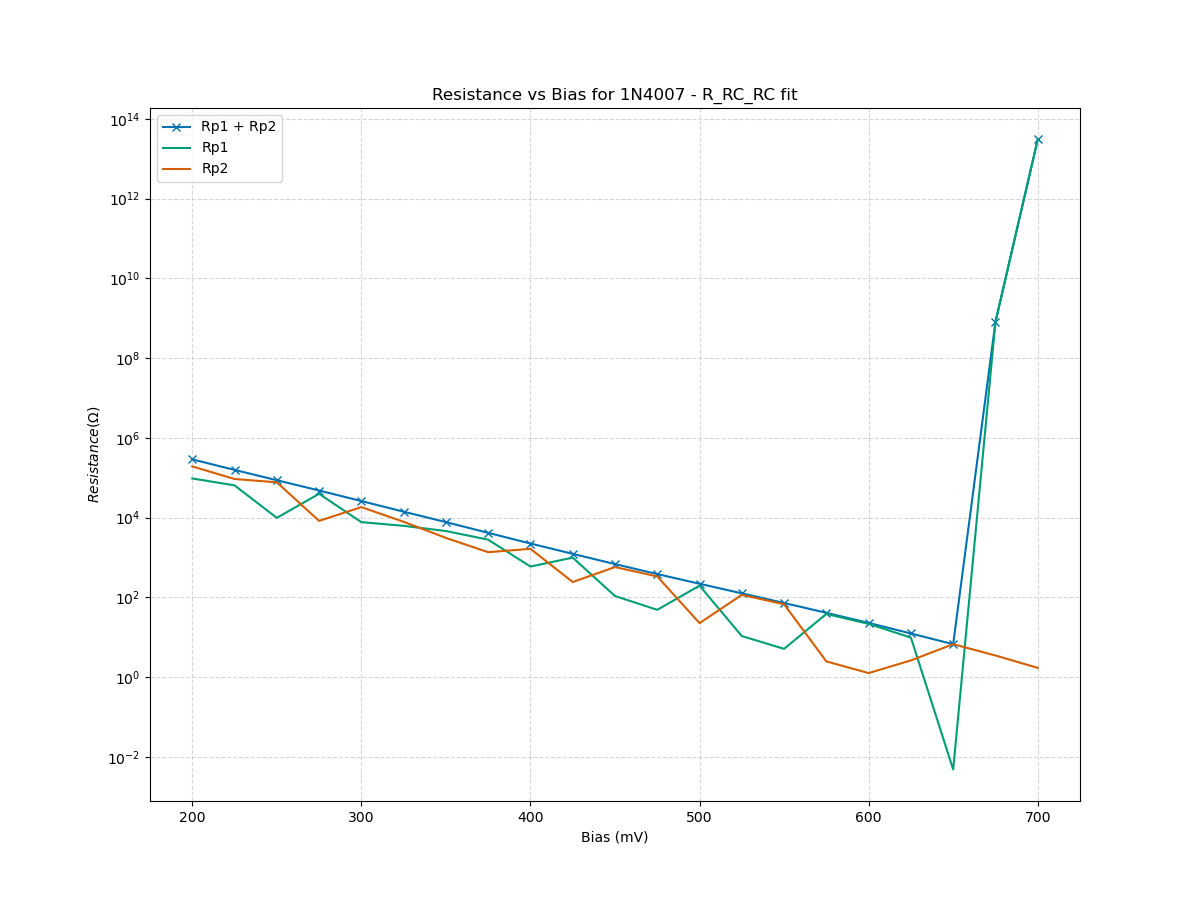
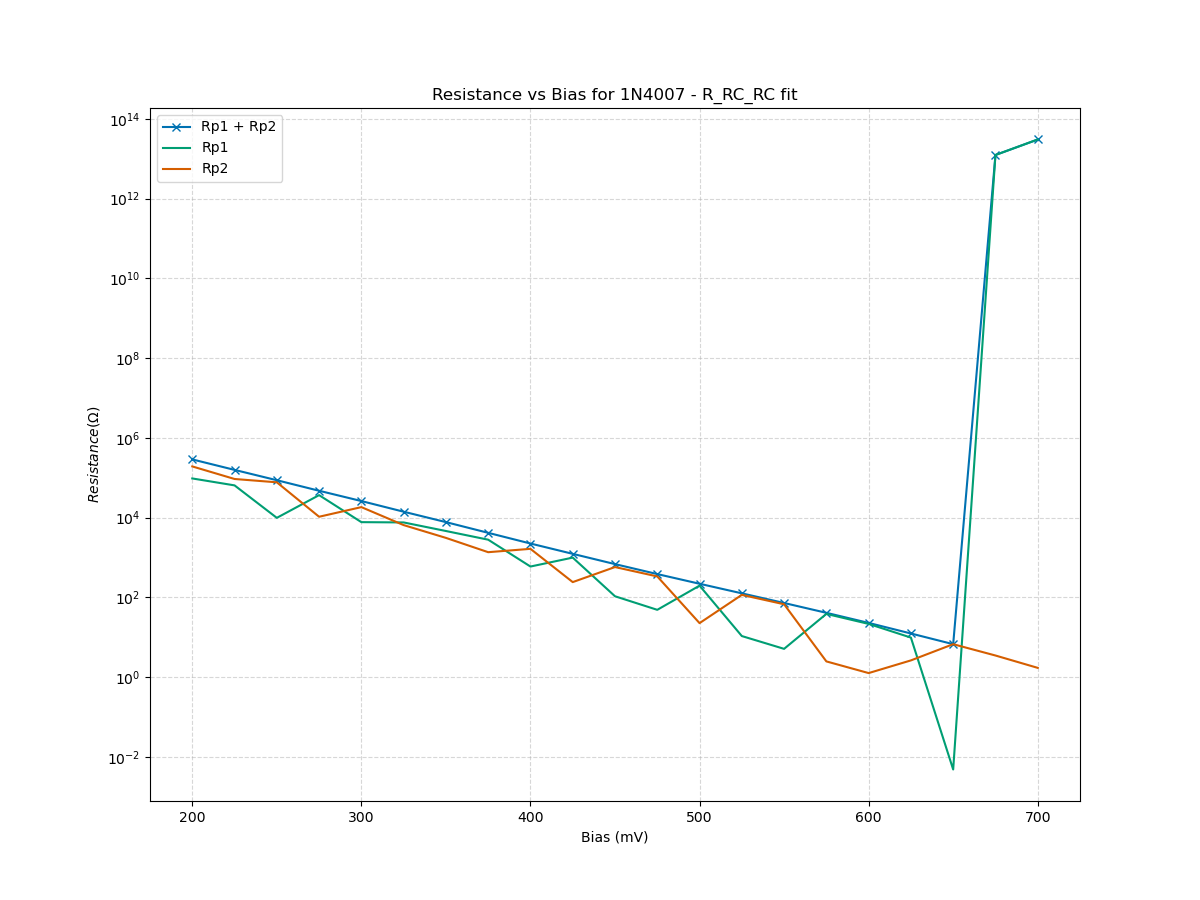
Added bodeplot

diff --git a/utils.py b/utils.py
@@ -1,4 +1,4 @@
-from fit import best_fit_complex
+from fit import best_fit_complex, chi2_test_pvalue, chi2_test_pvalue_phase
 import matplotlib.pyplot as plt
 import numpy as np
 import pandas as pd
@@ -21,25 +21,87 @@ def format_param_latex(p):
     return formatted_number
 
 
+def plot_bodeplot(x, Z, theta, fit, params, model, title="Bodeplot Fit"):
+    if not params.success:
+        logging.info(f"Fit failed: {params.message}")
+
+    theta_fit = np.abs(np.angle(fit, deg=True))
+
+    plt.style.use('seaborn-v0_8-colorblind')
+    fig, ax = plt.subplots(figsize=(12, 9))
+
+    ax.scatter(
+        x,
+        np.abs(Z),
+        label=r"$|Z|$",
+        c='blue',
+        ec='k',
+        zorder=2
+    )
+    ax2 = ax.twinx()
+    ax2.set_ylabel('Phase (°)', color='red')
+
+    ax2.scatter(
+        x,
+        theta,
+        label=r"$\theta$",
+        c='green',
+        ec='k',
+        zorder=2
+    )
+
+    ax.plot(x, np.abs(fit), label=r"$|Z|$ fit", ls='--', c='blue')
+    ax2.plot(x, theta_fit, label=r"$\theta$ fit", ls='--', c='red')
+
+    yerr = 0.1
+    ax2.errorbar(
+        x,
+        theta,
+        xerr=0,
+        yerr=yerr,
+        ecolor='k',
+        elinewidth=0.5,
+        capsize=2,
+        fmt='none',
+        zorder=1
+    )
+
+    ax.set_title(title)
+    ax.set_xlabel(r"$\text{Frequency (Hz)}$")
+    ax.set_ylabel(r"$|Z| (\Omega)$")
+    ax.set_xscale('log')
+    # ax.set_yscale('log')
+    ax.grid(True, alpha=0.5, linestyle='--')
+
+    ax.set_ylim(bottom=0)
+
+    ax.legend(loc='lower left', bbox_to_anchor=(0.0, 0.25), fontsize=12)
+    ax2.legend(loc='lower left', bbox_to_anchor=(0.2, 0.26), fontsize=12)
+
+    fig.savefig(f"plots/bias_scan/{title}_bode.png")
+    # fig.savefig(f"plots/bodeplot/{title}.svg")
+    plt.close(fig)
+
+
 def get_impedance_data(filepath):
     df = pd.read_csv(filepath, skiprows=3, sep=', ', engine='python')
     df = df[df["Frequency (Hz)"].notna()]
     freq = np.array(df["Frequency (Hz)"])
     Z = np.array(df["Z' (Ohm)"]) + np.array(df["Z'' (Ohm)"]) * 1j
     freq, Z = preprocessing.ignoreBelowX(freq, Z)
-    return freq, Z
+    theta = np.abs(np.angle(Z, deg=True))
+    return freq, Z, theta
 
 
-def plot_impedance_fit(x, data, model, title="Impedance Fit", sigma=0.1, convergence_threshold=30):
-    plt.style.use('seaborn-v0_8-colorblind')
-    fig, ax = plt.subplots(figsize=(12, 9))
-
-    params, fit, cost = best_fit_complex(x, data, model)
+def plot_impedance_fit(x, data, fit, params, model, title="Impedance Fit"):
     if not params.success:
         logging.info(f"Fit failed: {params.message}")
 
     data = data.real - data.imag * 1j
     fit = fit.real - fit.imag * 1j
+
+    plt.style.use('seaborn-v0_8-colorblind')
+    fig, ax = plt.subplots(figsize=(12, 9))
 
     scatter = ax.scatter(
         data.real,
@@ -70,7 +132,6 @@ def plot_impedance_fit(x, data, model, title="Impedance Fit", sigma=0.1, converg
     cbar = plt.colorbar(scatter, ax=ax, extend='both')
     cbar.set_label(r'$\text{Frequency (Hz)}$', rotation=0, labelpad=20)
 
-
     text = ""
     for param_name, param_unit, param in zip(model.params_names, model.params_units, params.x):
         param = format_param_latex(param)
@@ -87,13 +148,11 @@ def plot_impedance_fit(x, data, model, title="Impedance Fit", sigma=0.1, converg
     ax.set_ylim(bottom=0)
     ax.grid(True, alpha=0.5, linestyle='--')
 
-    ax.legend(loc='upper left')
+    ax.legend(loc='upper left', fontsize=12)
 
     fig.savefig(f"plots/bias_scan/{title}.png")
     # fig.savefig(f"plots/bias_scan/{title}.svg")
     plt.close(fig)
-
-    return params, fit, cost
 
 
 def fit_diode(diode, date, exp_type, models, sigma=0.1, convergence_threshold=30):
@@ -102,7 +161,7 @@ def fit_diode(diode, date, exp_type, models, sigma=0.1, convergence_threshold=30
     failures = {}
     for csv_file in csv_files:
         bias = csv_file.split('/')[-1].split('.')[0]
-        freq, Z = get_impedance_data(csv_file)
+        freq, Z, theta = get_impedance_data(csv_file)
         if len(Z) < 5:
             logging.info(
                 f"{diode} @ {bias} has insufficient data (< 5 points)"
@@ -110,13 +169,33 @@ def fit_diode(diode, date, exp_type, models, sigma=0.1, convergence_threshold=30
             continue
         for model in models:
             print(f"\n\nFitting {diode} @ {bias} with {model.name}\n")
-            params, fit, cost = plot_impedance_fit(
+            params, fit = best_fit_complex(
                 freq,
                 Z,
                 model,
-                title=f"{diode} @ {bias} - {model.name} fit",
                 sigma=sigma,
                 convergence_threshold=convergence_threshold
+            )
+            chi2_pvalue = chi2_test_pvalue_phase(Z, fit, model, params)
+            logging.info(
+                f"{diode} @ {bias} with {model.name}: p-value = {chi2_pvalue:.6e} < 0.05"
+            )
+            plot_impedance_fit(
+                freq,
+                Z,
+                fit,
+                params,
+                model,
+                title=f"{diode} @ {bias} - {model.name} fit",
+            )
+            plot_bodeplot(
+                freq,
+                Z,
+                theta,
+                fit,
+                params,
+                model,
+                title=f"{diode} @ {bias} - {model.name} fit",
             )
             # stats.append([diode, bias, model.name, cost, *params.x])
             if params.success:
@@ -143,9 +222,9 @@ def filter_stats(stats, fix_bias=None, fix_model=None):
         stats = {
             key: val for key, val in stats.items() if key[1].name == fix_model
         }
-    biases = list(set([key[0].removesuffix("mV")
-                  for key in stats.keys()])).sort()
-    models = list(set([key[1].name for key in stats.keys()]))
+    # biases = list(set([key[0].removesuffix("mV")
+    #               for key in stats.keys()])).sort()
+    # models = list(set([key[1].name for key in stats.keys()]))
     return stats
 
 

diff --git a/fit.py b/fit.py
@@ -1,5 +1,6 @@
 import numpy as np
 from scipy.optimize import least_squares
+from scipy.stats import chi2
 import time
 
 
@@ -21,15 +22,42 @@ def loss(params, x, data, model) -> np.ndarray:
 
 def fit_complex(params0, x, data, model):
     params_fit = least_squares(
-            loss, params0,
-            bounds=(0, np.inf),
-            args=(x, data, model),
-            method='trf',
-            loss='linear',
-            ftol=1e-8,
-            gtol=1e-8,
-            xtol=1e-8,
-            )
+        loss, params0,
+        bounds=(0, np.inf),
+        args=(x, data, model),
+        method='trf',
+        loss='linear',
+        ftol=1e-8,
+        gtol=1e-8,
+        xtol=1e-8,
+    )
+    data_fit = model.func(params_fit.x, x)
+    return params_fit, data_fit
+
+
+def residuals_phase(params, x, data, model) -> np.ndarray:
+    y_model = model.func(params, x)
+    res_real = y_model.real - data.real
+    res_imag = y_model.imag - data.imag
+    res_phase = np.angle(y_model) - np.angle(data)
+    return np.array([res_real, res_imag, res_phase]).flatten()
+
+
+def loss_phase(params, x, data, model) -> np.ndarray:
+    return residuals_phase(params, x, data, model)
+
+
+def fit_complex_phase(params0, x, data, model):
+    params_fit = least_squares(
+        loss_phase, params0,
+        bounds=(0, np.inf),
+        args=(x, data, model),
+        method='trf',
+        loss='linear',
+        ftol=1e-8,
+        gtol=1e-8,
+        xtol=1e-8,
+    )
     data_fit = model.func(params_fit.x, x)
     return params_fit, data_fit
 
@@ -37,7 +65,8 @@ def fit_complex(params0, x, data, model):
 def best_fit_complex(x, data, model, convergence_threshold=100, sigma=0.1):
     np.random.seed(32)
     params0 = [1 for _ in range(model.params_num)]
-    best_params_fit, best_data_fit = fit_complex(params0, x, data, model)
+    # best_params_fit, best_data_fit = fit_complex(params0, x, data, model)
+    best_params_fit, best_data_fit = fit_complex_phase(params0, x, data, model)
     best_cost = np.inf
     convergence_counter = 0
     last_params_fit = None
@@ -65,4 +94,20 @@ def best_fit_complex(x, data, model, convergence_threshold=100, sigma=0.1):
         else:
             convergence_counter += 1
         # last_params_fit = params_fit
-    return best_params_fit, best_data_fit, best_cost
+    return best_params_fit, best_data_fit
+
+
+def chi2_test_pvalue(data, data_fit, model, params_fit) -> float:
+    res = residuals(params_fit.x, data, data_fit, model)
+    chi2_val = np.sum(res**2)
+    dof = len(data) * 2 - model.params_num
+    p_value = 1 - chi2.cdf(chi2_val, dof)
+    return p_value
+
+
+def chi2_test_pvalue_phase(data, data_fit, model, params_fit) -> float:
+    res = residuals_phase(params_fit.x, data, data_fit, model)
+    chi2_val = np.sum(res**2)
+    dof = len(data) * 3 - model.params_num
+    p_value = 1 - chi2.cdf(chi2_val, dof)
+    return p_value

diff --git a/main.py b/main.py
@@ -14,15 +14,15 @@ def main():
     convergence_threshold = 200
 
     # models = [R_RC(), R_RC_RC(), R_RC_RC_RC(), R_RCW()]
-    models = [R_RC(), R_RC_RC(), R_RC_RC_RC()]
-    # models = [R_RC_RC()]
+    # models = [R_RC(), R_RC_RC(), R_RC_RC_RC()]
+    models = [R_RC_RC()]
 
     model_names = [model.name for model in models]
 
     exp_type = "BIAS_SCAN"
     date = "2024-01-15"
-    diodes = ["1N4001", "1N4002", "1N4003", "1N4007"]
-    # diodes = ["1N4007"]
+    # diodes = ["1N4001", "1N4002", "1N4003", "1N4007"]
+    diodes = ["1N4007"]
 
     # stats: [diode, bias, model, cost, *params]
     for diode in diodes:
